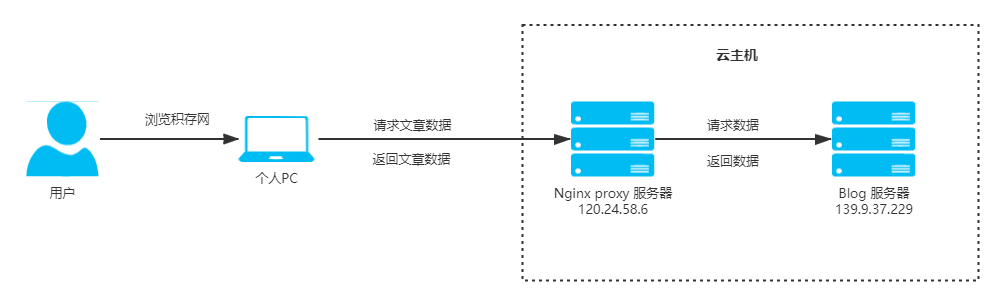
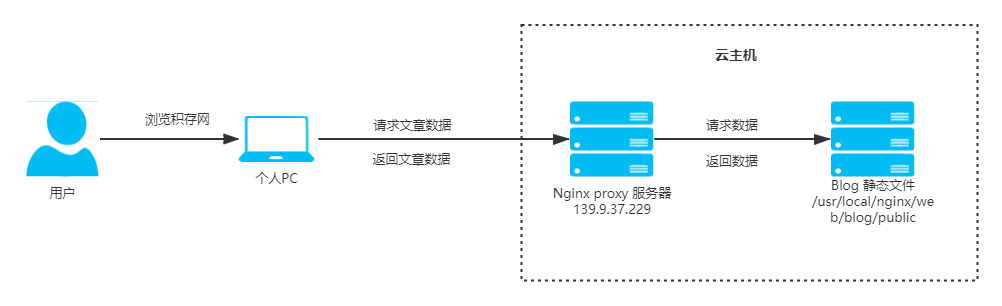
日常提交

diff --git a/README.md b/README.md
@@ -1,4 +1,11 @@
 # hugo-blog
 这是一个基于hugo生成的静态站点
 
+## 部署方式
+- DaoCloud 自动化部署
+- Nginx 部署
 
+### Nginx 部署
+1. 安装配置 Nginx，配置示例文件 `./web-app/nginx.conf`；
+2. 在 web-app 目录下执行 `hugo` 命令编译生成静态文件到 `public/` 目录下；
+3. 将 `public/` 目录下的文件 Copy 到 Nginx 配置文件 `root` 指向的文件夹下。 

diff --git a/web-app/content/_index.md b/web-app/content/_index.md
@@ -1,6 +1,6 @@
 +++
 description = "不积跬步,无以至千里;不积小流,无以成江海。"
-title = "Aoki的学习研究室"
+title = "Aoki 的学习研究室"
 draft = false
 
 +++
